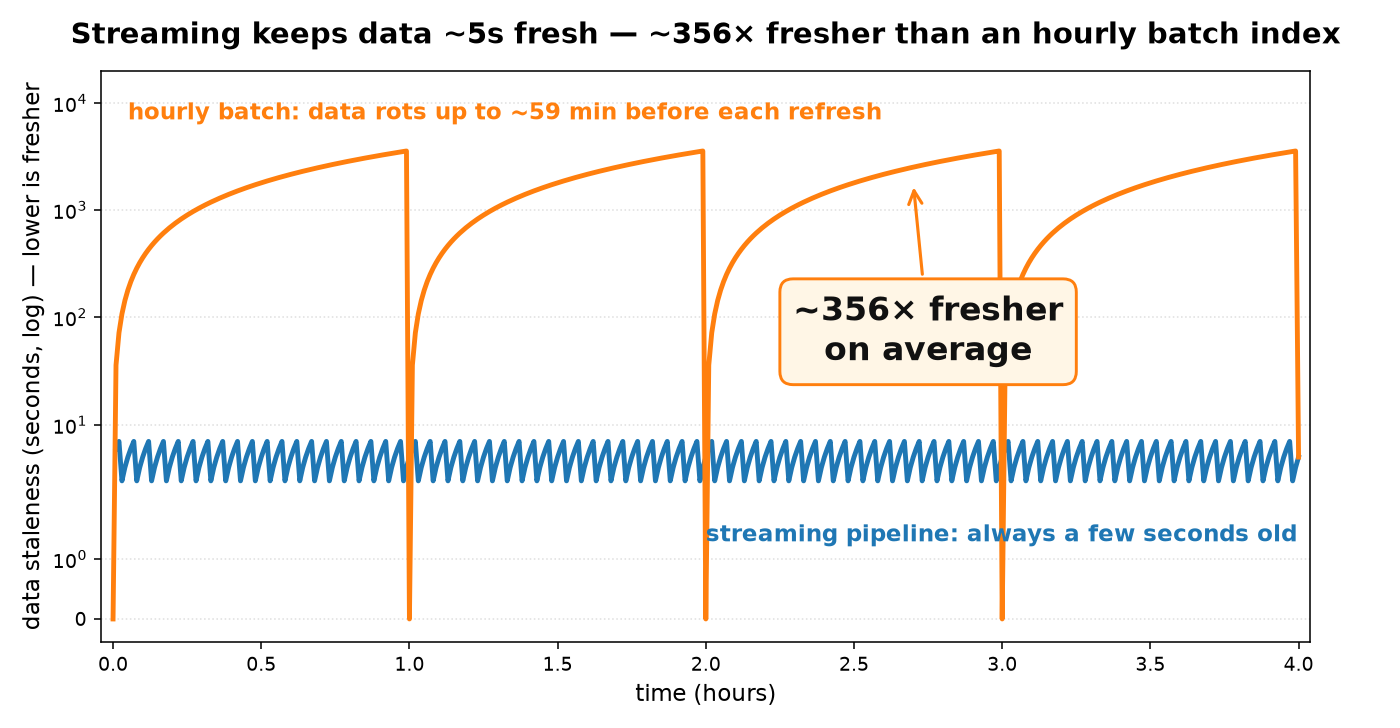
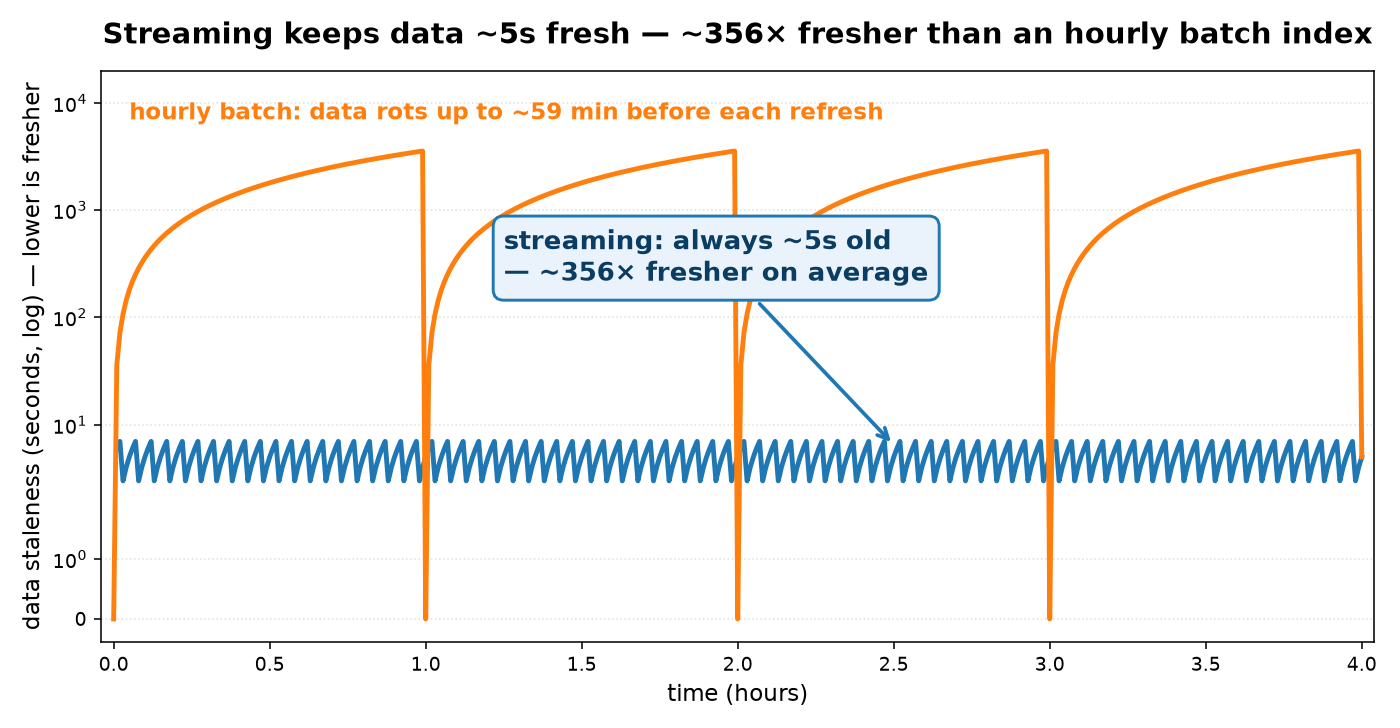
docs(readme): point the 356x callout at the streaming line, not batch

diff --git a/scripts/make_hero_plot.py b/scripts/make_hero_plot.py
@@ -42,18 +42,18 @@ def main() -> None:
     ax.set_ylabel("data staleness (seconds, log) — lower is fresher", fontsize=12)
     ax.margins(x=0.01)
 
-    # Direct line labels (no legend to decode).
-    ax.text(2.0, 1.6, "streaming pipeline: always a few seconds old",
-            color=BLUE, fontsize=12, fontweight="bold", va="top")
+    # One label per line, each in its line's colour. The batch (orange) label sits
+    # in the clean strip above the peaks; the streaming (blue) callout carries the
+    # headline and its arrow points DOWN at OUR line — so "356x fresher" reads as
+    # a property of streaming, not of the batch curve.
     ax.text(0.05, 8000, f"hourly batch: data rots up to ~{peak_min:.0f} min before each refresh",
             color=ORANGE, fontsize=12, fontweight="bold", va="center")
 
-    # Headline callout in open space.
-    ax.annotate(f"~{ratio:.0f}× fresher\non average",
-                xy=(2.7, mean_b), xytext=(2.75, 40),
-                fontsize=17, fontweight="bold", color="#111", ha="center",
-                bbox=dict(boxstyle="round,pad=0.4", fc="#fff6e6", ec=ORANGE, lw=1.5),
-                arrowprops=dict(arrowstyle="->", color=ORANGE, lw=1.6))
+    ax.annotate(f"streaming: always ~{mean_s:.0f}s old\n— ~{ratio:.0f}× fresher on average",
+                xy=(2.5, mean_s + 1.5), xytext=(1.25, 220),
+                fontsize=13.5, fontweight="bold", color="#0b3d63", ha="left",
+                bbox=dict(boxstyle="round,pad=0.4", fc="#eaf3fb", ec=BLUE, lw=1.5),
+                arrowprops=dict(arrowstyle="->", color=BLUE, lw=1.9))
 
     ax.grid(True, which="major", axis="y", ls=":", alpha=0.4)
     fig.tight_layout()